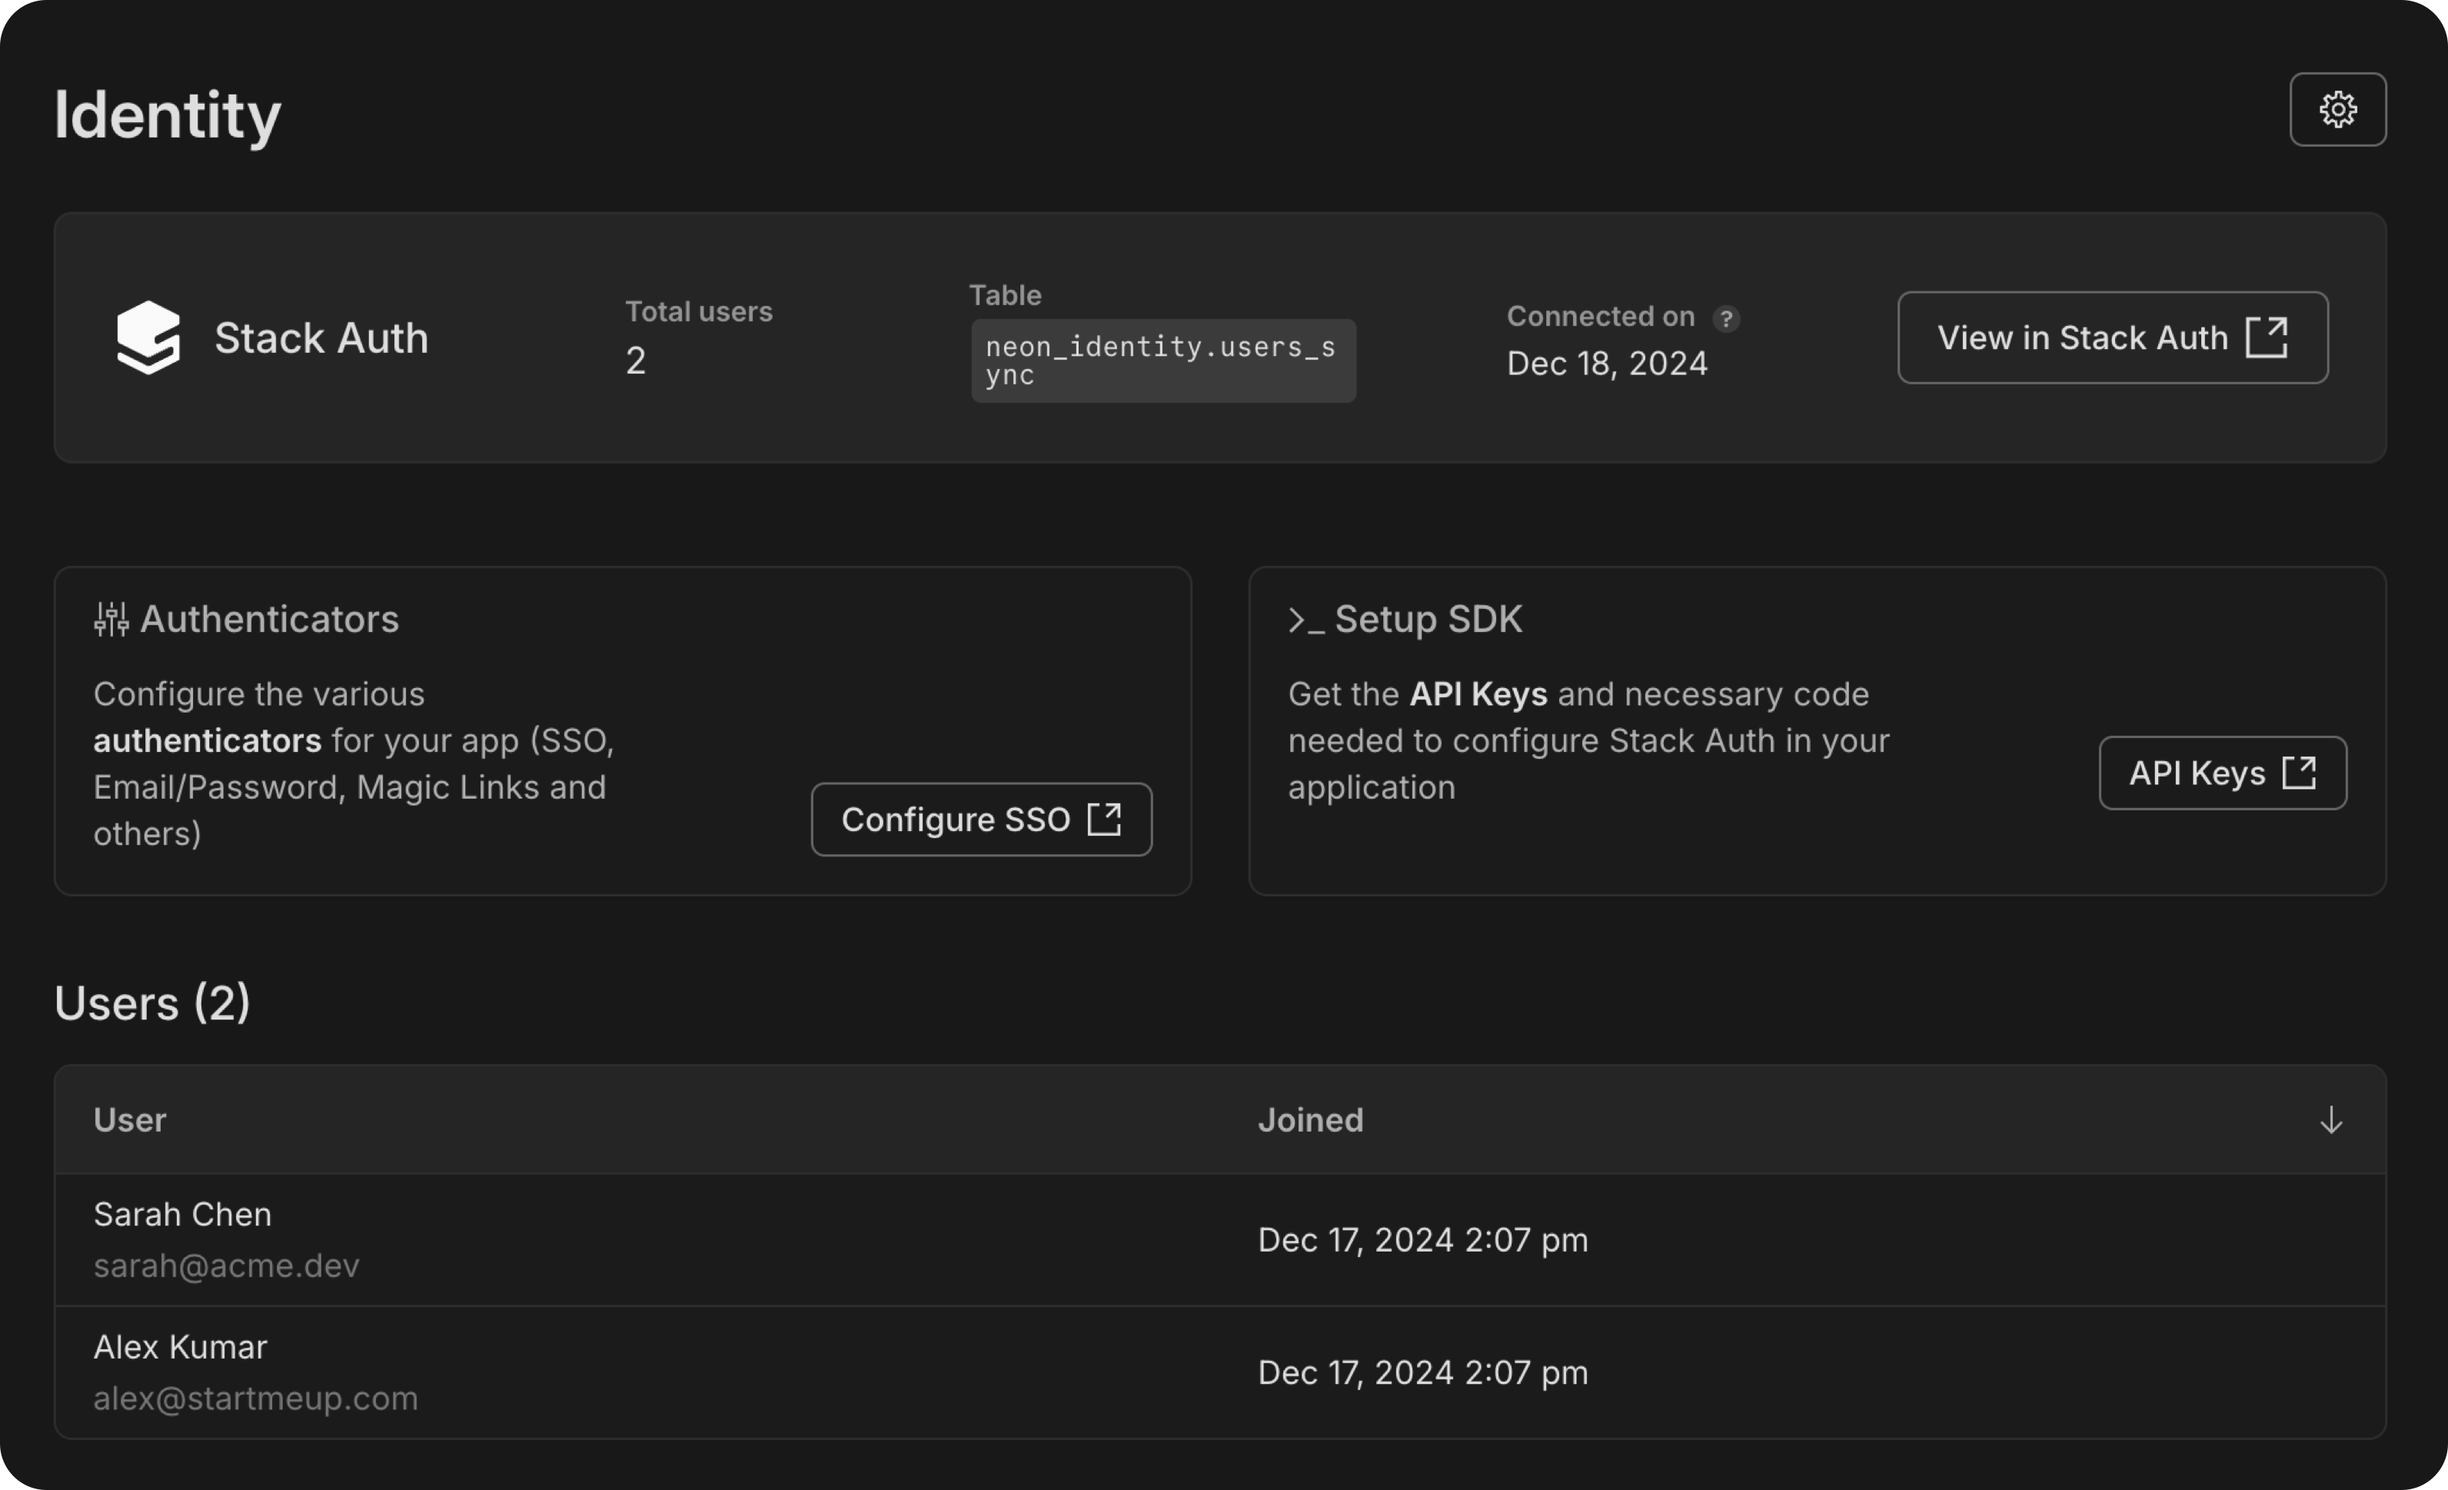
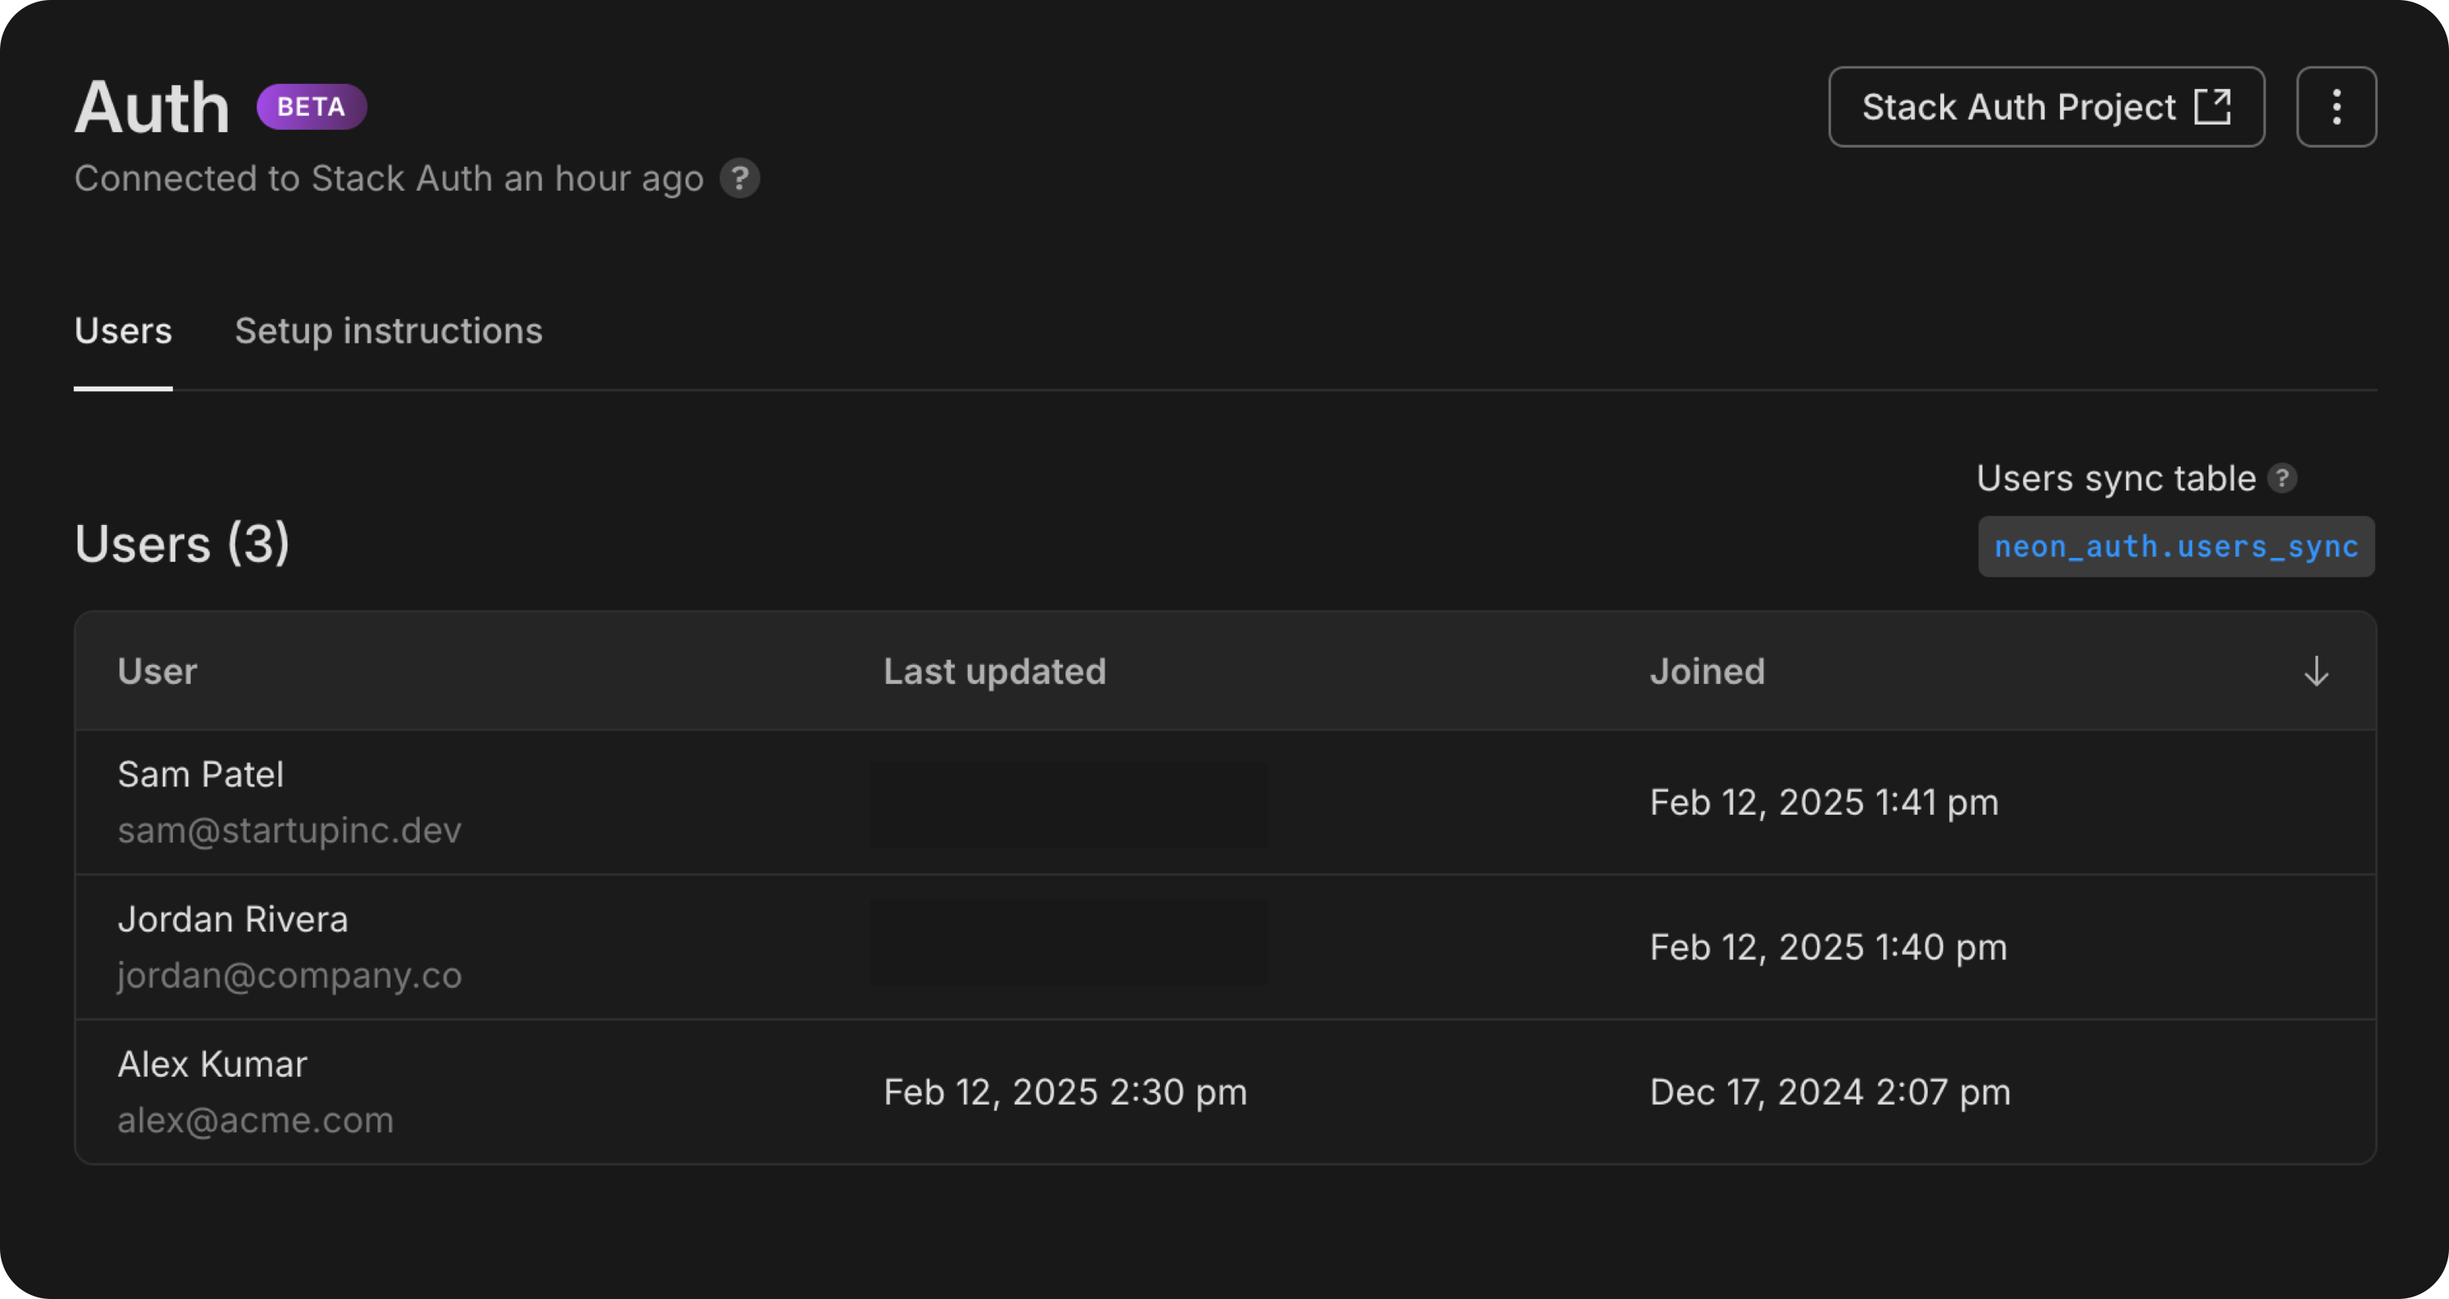
docs: added new column and replaced screenshot

diff --git a/content/docs/guides/neon-auth.md b/content/docs/guides/neon-auth.md
@@ -49,10 +49,10 @@ Here is the basic flow:
    SELECT * FROM neon_auth.users_sync;
    ```
 
-   | id          | name       | email             | created_at    | raw_json                      |
-   | ----------- | ---------- | ----------------- | ------------- | ----------------------------- |
-   | 21373f88... | Sarah Chen | sarah@acme.dev    | 2024-12-17... | \{"id": "21373f88-...", ...\} |
-   | 0310a9a5... | Alex Kumar | alex@startmeup.co | 2024-12-17... | \{"id": "0310a9a5-...", ...\} |
+   | id          | name          | email               | created_at           | updated_at           | deleted_at | raw_json                      |
+   | ----------- | ------------- | ------------------- | ------------------- | ------------------- | ---------- | ----------------------------- |
+   | 21373f88... | Sam Patel     | sam@startupinc.dev  | Feb 12, 2025 1:41 pm | null                | null       | \{"id": "21373f88-...", ...\}   |
+   | 542c424b... | Alex Kumar    | alex@acme.com       | Dec 17, 2024 2:07 pm | Feb 12, 2025 2:30 pm | null       | \{"id": "542c424b-...", ...\}   |
 
 ### Table structure
 
@@ -64,6 +64,7 @@ The following columns are included in the `neon_auth.users_sync` table:
 - `email`: The user's primary email (nullable)
 - `created_at`: When the user signed up (nullable)
 - `deleted_at`: When the user was deleted, if applicable (nullable)
+- `updated_at`: When user info was last updated, if applicable (nullable)
 
 Updates to user profiles in the auth provider are automatically synchronized.
 
@@ -82,7 +83,7 @@ Without Neon Auth, keeping user data in sync often involves:
 1. Using additional services (like Inngest) for background jobs
 2. Writing and maintaining sync logic
 
-Here's how you'd typically sync user data without Neon Auth:
+Here's how you'd typically sync user data _without_ Neon Auth:
 
 ```typescript
 import { AuthProvider } from '@auth/sdk';
